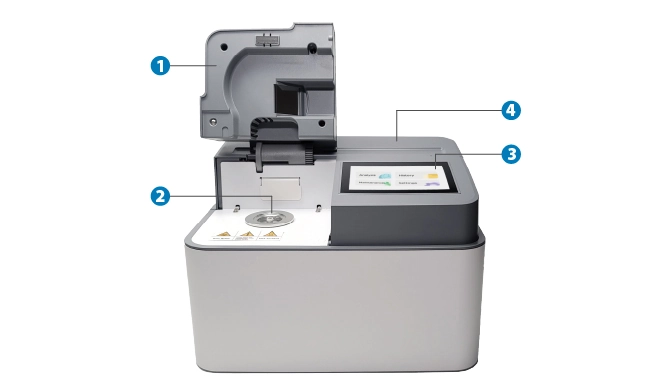
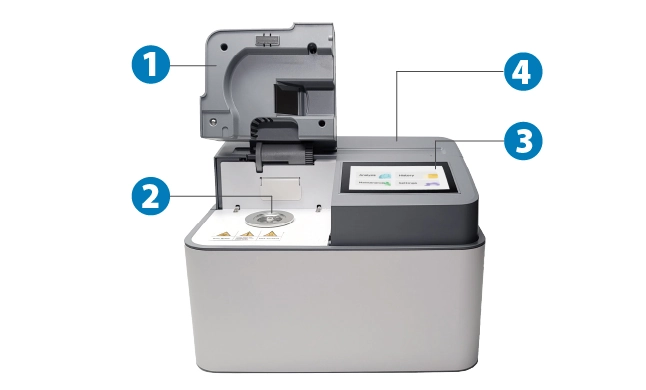
utilitiesModify

Changed region(s): [[0.6811, 0.1231, 0.8669, 0.4308], [0.1858, 0.4308, 0.2786, 0.5538], [0.1858, 0.0923, 0.2786, 0.2154]]

diff --git a/solutions/smart_diagnostic_systems/veterinary_chemistry_analyzer.html b/solutions/smart_diagnostic_systems/veterinary_chemistry_analyzer.html
@@ -243,21 +243,21 @@
                 </div>
                 <div class="row justify-content-center">
                   <!-- Versatility in Clinical Settings -->
-                  <div class="col-8 col-sm-6 d-flex align-items-center">
+                  <div class="col-12 col-sm-6 order-2 order-sm-1 d-flex align-items-center">
                     <div>
                       <p class="fs-4 fw-bold mb-0 text-primary">Versatility in Clinical Settings</p>
                       <p class="fs-5 px-3 mb-0" style="color: var(--bs-gray-600); text-indent: -0.5em"><i class="bi bi-dot"></i>Ideal for general check-ups, senior pet care, and pre-surgical assessments</p>
                       <p class="fs-5 px-3 mb-0" style="color: var(--bs-gray-600); text-indent: -0.5em"><i class="bi bi-dot"></i>Enables quick diagnosis and treatment adjustments for various animal species</p>
                     </div>
                   </div>
-                  <div class="col-4 col-sm-4">
+                  <div class="col-12 col-sm-4 order-1 order-sm-2">
                     <img src="../../images/solutions/smart_diagnostic_systems/veterinary_chemistry_analyzer/veterinary_chemistry_analyzer-description-01.webp" alt="" class="img-fluid" />
                   </div>
                   <!-- Research Excellence -->
-                  <div class="col-4 col-sm-4">
+                  <div class="col-12 col-sm-4 order-3">
                     <img src="../../images/solutions/smart_diagnostic_systems/veterinary_chemistry_analyzer/veterinary_chemistry_analyzer-description-02.webp" alt="" class="img-fluid" />
                   </div>
-                  <div class="col-8 col-sm-6 d-flex align-items-center">
+                  <div class="col-12 col-sm-6 order-4 d-flex align-items-center">
                     <div>
                       <p class="fs-4 fw-bold mb-0 text-primary">Research Excellence</p>
                       <p class="fs-5 px-3 mb-0" style="color: var(--bs-gray-600); text-indent: -0.5em"><i class="bi bi-dot"></i>Accelerates laboratory processes in tumor drug validation and radiation impact studies</p>
@@ -265,21 +265,21 @@
                     </div>
                   </div>
                   <!-- Zoo and Wildlife Applications -->
-                  <div class="col-8 col-sm-6 d-flex align-items-center">
+                  <div class="col-12 col-sm-6 order-6 order-sm-5 d-flex align-items-center">
                     <div>
                       <p class="fs-4 fw-bold mb-0 text-primary">Zoo and Wildlife Applications</p>
                       <p class="fs-5 px-3 mb-0" style="color: var(--bs-gray-600); text-indent: -0.5em"><i class="bi bi-dot"></i>Trusted by major zoos for monitoring diverse animal health</p>
                       <p class="fs-5 px-3 mb-0" style="color: var(--bs-gray-600); text-indent: -0.5em"><i class="bi bi-dot"></i>Facilitates care for exotic and endangered species</p>
                     </div>
                   </div>
-                  <div class="col-4 col-sm-4">
+                  <div class="col-12 col-sm-4 order-5 order-sm-6">
                     <img src="../../images/solutions/smart_diagnostic_systems/veterinary_chemistry_analyzer/veterinary_chemistry_analyzer-description-03.webp" alt="" class="img-fluid" />
                   </div>
                   <!-- Micro-sample Capability -->
-                  <div class="col-4 col-sm-4">
+                  <div class="col-12 col-sm-4 order-7">
                     <img src="../../images/solutions/smart_diagnostic_systems/veterinary_chemistry_analyzer/veterinary_chemistry_analyzer-description-04.webp" alt="" class="img-fluid" />
                   </div>
-                  <div class="col-8 col-sm-6 d-flex align-items-center">
+                  <div class="col-12 col-sm-6 order-8 d-flex align-items-center">
                     <div>
                       <p class="fs-4 fw-bold mb-0 text-primary">Micro-sample Capability</p>
                       <p class="fs-5 px-3 mb-0" style="color: var(--bs-gray-600); text-indent: -0.5em"><i class="bi bi-dot"></i>Perfect for small or difficult-to-sample animals</p>
@@ -287,21 +287,21 @@
                     </div>
                   </div>
                   <!-- Comprehensive Analysis -->
-                  <div class="col-8 col-sm-6 d-flex align-items-center">
+                  <div class="col-12 col-sm-6 order-10 order-sm-9 d-flex align-items-center">
                     <div>
                       <p class="fs-4 fw-bold mb-0 text-primary">Comprehensive Analysis</p>
                       <p class="fs-5 px-3 mb-0" style="color: var(--bs-gray-600); text-indent: -0.5em"><i class="bi bi-dot"></i>Covers crucial health indicators including glucose, protein, cardiac, hepatic, renal, pancreatic, and electrolyte markers</p>
                     </div>
                   </div>
-                  <div class="col-4 col-sm-4">
+                  <div class="col-12 col-sm-4 order-9 order-sm-10">
                     <img src="../../images/solutions/smart_diagnostic_systems/veterinary_chemistry_analyzer/veterinary_chemistry_analyzer-description-05.webp" alt="" class="img-fluid" />
                   </div>
                 </div>
                 <div class="row justify-content-center">
-                  <div class="col-4 col-sm-4">
+                  <div class="col-12 col-sm-6 order-11">
                     <img src="../../images/solutions/smart_diagnostic_systems/veterinary_chemistry_analyzer/veterinary_chemistry_analyzer-description-06.webp" alt="" class="img-fluid" />
                   </div>
-                  <div class="col-8 col-sm-6 d-flex align-items-center">
+                  <div class="col-12 col-sm-4 order-12 d-flex align-items-center">
                     <p class="fs-5 mb-0" style="color: var(--bs-gray-600)">
                       1. Analyzer lid <br />
                       2. Spindle <br />3. Touch Screen <br />4. Printer
@@ -330,13 +330,6 @@
               <div class="row justify-content-center">
                 <div class="col-12 col-sm-10">
                   <table class="table mx-auto mb-5 fs-5 table-borderless table-striped">
-                    <!-- <thead>
-                                        <tr class="py-1" style="background-color: var(--bs-gray-200);">
-                                            <th scope="col" colspan="2" class="text-primary">Electrical
-                                                Specification
-                                            </th>
-                                        </tr>
-                                    </thead> -->
                     <tbody>
                       <tr>
                         <td class="text-primary fw-medium">Species</td>
@@ -358,15 +351,6 @@
                         <td class="text-primary fw-medium">Units</td>
                         <td style="color: var(--bs-gray-600)">S.I. units, Common units</td>
                       </tr>
-                      <!-- <tr>
-                                            <td class="text-primary fw-medium">Quality control</td>
-                                            <td style="color: var(--bs-gray-600);">Able to determine by using the
-                                                commercially
-                                                available materials recommended by the
-                                                manufacturer. For quality control, please read
-                                                carefully the package insert for use of the
-                                                reagent rotor/disc.</td>
-                                        </tr> -->
                       <tr>
                         <td class="text-primary fw-medium">Time to Result</td>
                         <td style="color: var(--bs-gray-600)">
@@ -374,14 +358,6 @@
                           Plasma/Serum: approx. 12 minutes
                         </td>
                       </tr>
-                      <!-- <tr>
-                                            <td class="text-primary fw-medium">Quality Control</td>
-                                            <td style="color: var(--bs-gray-600);">AmiShield BCTM quality control fluid
-                                                for blood chemistry
-                                                disc <br>
-                                                AmiShield ECTM quality control fluid for electrolyte disc <br>
-                                                AmiShield ICT" quality control fluid for Immunoassay disc</td>
-                                        </tr> -->
                       <tr>
                         <td class="text-primary fw-medium">Ambient Temperature and Relative Humidity</td>
                         <td style="color: var(--bs-gray-600)">5°C ~ 40°C and 10~90%RH</td>

diff --git a/custom/coustom.css b/custom/coustom.css
@@ -6096,8 +6096,48 @@ progress {
   order: 5 !important;
 }
 
-.order-last {
+.order-6 {
   order: 6 !important;
+}
+
+.order-7 {
+  order: 7 !important;
+}
+
+.order-8 {
+  order: 8 !important;
+}
+
+.order-9 {
+  order: 9 !important;
+}
+
+.order-10 {
+  order: 10 !important;
+}
+
+.order-11 {
+  order: 11 !important;
+}
+
+.order-12 {
+  order: 12 !important;
+}
+
+.order-13 {
+  order: 13 !important;
+}
+
+.order-14 {
+  order: 14 !important;
+}
+
+.order-15 {
+  order: 15 !important;
+}
+
+.order-last {
+  order: 16 !important;
 }
 
 .m-0 {
@@ -7579,8 +7619,38 @@ progress {
   .order-sm-5 {
     order: 5 !important;
   }
-  .order-sm-last {
+  .order-sm-6 {
     order: 6 !important;
+  }
+  .order-sm-7 {
+    order: 7 !important;
+  }
+  .order-sm-8 {
+    order: 8 !important;
+  }
+  .order-sm-9 {
+    order: 9 !important;
+  }
+  .order-sm-10 {
+    order: 10 !important;
+  }
+  .order-sm-11 {
+    order: 11 !important;
+  }
+  .order-sm-12 {
+    order: 12 !important;
+  }
+  .order-sm-13 {
+    order: 13 !important;
+  }
+  .order-sm-14 {
+    order: 14 !important;
+  }
+  .order-sm-15 {
+    order: 15 !important;
+  }
+  .order-sm-last {
+    order: 16 !important;
   }
   .m-sm-0 {
     margin: 0 !important;
@@ -8140,8 +8210,38 @@ progress {
   .order-md-5 {
     order: 5 !important;
   }
-  .order-md-last {
+  .order-md-6 {
     order: 6 !important;
+  }
+  .order-md-7 {
+    order: 7 !important;
+  }
+  .order-md-8 {
+    order: 8 !important;
+  }
+  .order-md-9 {
+    order: 9 !important;
+  }
+  .order-md-10 {
+    order: 10 !important;
+  }
+  .order-md-11 {
+    order: 11 !important;
+  }
+  .order-md-12 {
+    order: 12 !important;
+  }
+  .order-md-13 {
+    order: 13 !important;
+  }
+  .order-md-14 {
+    order: 14 !important;
+  }
+  .order-md-15 {
+    order: 15 !important;
+  }
+  .order-md-last {
+    order: 16 !important;
   }
   .m-md-0 {
     margin: 0 !important;
@@ -8701,8 +8801,38 @@ progress {
   .order-lg-5 {
     order: 5 !important;
   }
-  .order-lg-last {
+  .order-lg-6 {
     order: 6 !important;
+  }
+  .order-lg-7 {
+    order: 7 !important;
+  }
+  .order-lg-8 {
+    order: 8 !important;
+  }
+  .order-lg-9 {
+    order: 9 !important;
+  }
+  .order-lg-10 {
+    order: 10 !important;
+  }
+  .order-lg-11 {
+    order: 11 !important;
+  }
+  .order-lg-12 {
+    order: 12 !important;
+  }
+  .order-lg-13 {
+    order: 13 !important;
+  }
+  .order-lg-14 {
+    order: 14 !important;
+  }
+  .order-lg-15 {
+    order: 15 !important;
+  }
+  .order-lg-last {
+    order: 16 !important;
   }
   .m-lg-0 {
     margin: 0 !important;
@@ -9262,8 +9392,38 @@ progress {
   .order-xl-5 {
     order: 5 !important;
   }
-  .order-xl-last {
+  .order-xl-6 {
     order: 6 !important;
+  }
+  .order-xl-7 {
+    order: 7 !important;
+  }
+  .order-xl-8 {
+    order: 8 !important;
+  }
+  .order-xl-9 {
+    order: 9 !important;
+  }
+  .order-xl-10 {
+    order: 10 !important;
+  }
+  .order-xl-11 {
+    order: 11 !important;
+  }
+  .order-xl-12 {
+    order: 12 !important;
+  }
+  .order-xl-13 {
+    order: 13 !important;
+  }
+  .order-xl-14 {
+    order: 14 !important;
+  }
+  .order-xl-15 {
+    order: 15 !important;
+  }
+  .order-xl-last {
+    order: 16 !important;
   }
   .m-xl-0 {
     margin: 0 !important;
@@ -9823,8 +9983,38 @@ progress {
   .order-xxl-5 {
     order: 5 !important;
   }
-  .order-xxl-last {
+  .order-xxl-6 {
     order: 6 !important;
+  }
+  .order-xxl-7 {
+    order: 7 !important;
+  }
+  .order-xxl-8 {
+    order: 8 !important;
+  }
+  .order-xxl-9 {
+    order: 9 !important;
+  }
+  .order-xxl-10 {
+    order: 10 !important;
+  }
+  .order-xxl-11 {
+    order: 11 !important;
+  }
+  .order-xxl-12 {
+    order: 12 !important;
+  }
+  .order-xxl-13 {
+    order: 13 !important;
+  }
+  .order-xxl-14 {
+    order: 14 !important;
+  }
+  .order-xxl-15 {
+    order: 15 !important;
+  }
+  .order-xxl-last {
+    order: 16 !important;
   }
   .m-xxl-0 {
     margin: 0 !important;
